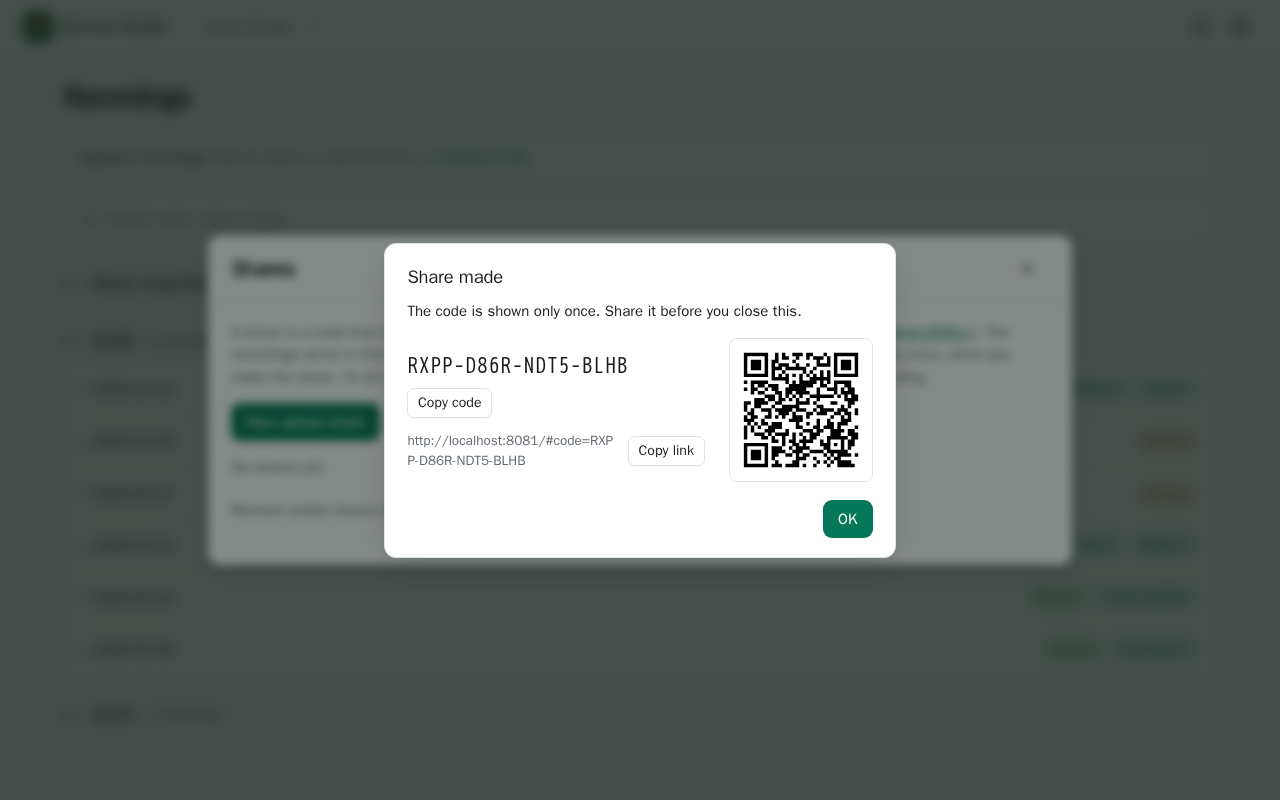
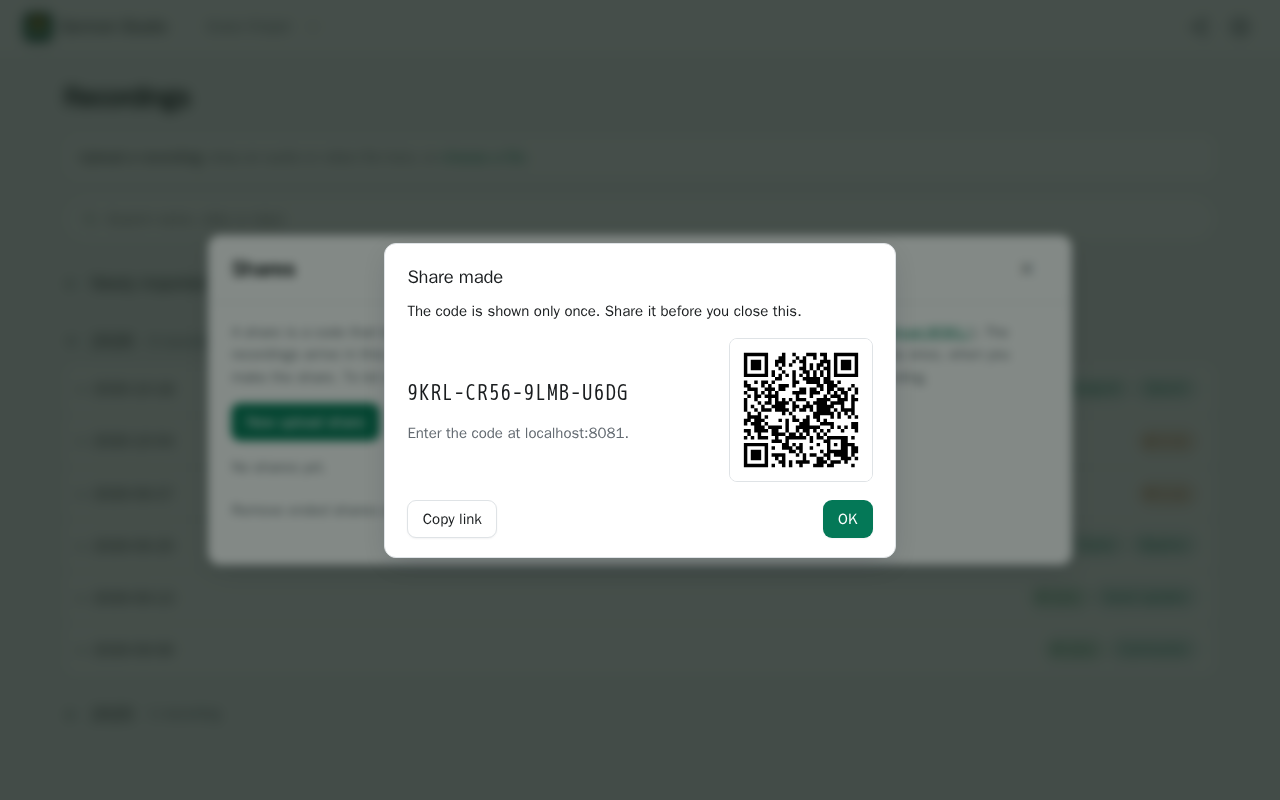
Share invite links and share codes from the phone's share menu (#188)
* Share invite links; Email where there is no share menu

The invite link's dialog gets Share (the device's share menu), with a
subject and a text for the one invited, saying the link is for them only
and works once. Share made (upload and download shares) sends a text with
the link, the code and the expiry. Where the browser has no share menu
(Firefox, Chrome on Linux) the button is Email instead: the user's own mail
program, the subject and text written. The studio sends nothing itself.

* Share made: Copy link and Share at the bottom, no Email

The code and the link lose their own copy buttons: the dialog has Copy
link (Copy code when there is no link; the code, held, still copies the
code) and Share, which sends the link with a text that has the code.
Where there is no share menu only Copy is shown; the Email fallback is
gone, for invites too. The guide's picture of the dialog is made again.

* Share made: the share page's short address instead of the link

The long link with the code in it is no longer shown: Copy link, Share and
the QR code give it. Under the code the dialog says where to type it
("Or open share.example.org and enter the code."), and Share's text names
the same short address. The tests read the link from the dialog's
data-link.

* Share made: "Enter the code at …"

---------

Changed region(s): [[0.3125, 0.4375, 0.5312, 0.5938], [0.5625, 0.4375, 0.6875, 0.5938], [0.3125, 0.625, 0.375, 0.6562]]

diff --git a/web/static/shares.js b/web/static/shares.js
@@ -2,7 +2,7 @@
 // church's inbox from the public share page, or download one sermon (made on
 // the recording, sermons.js). A code is shown once, when the share is made.
 // They have their own overlay (the icon in the header); sharesView fills its box.
-import { api, h, href, formatSize, formatDate, formatDateTime } from './util.js';
+import { api, h, href, formatSize, formatDate, formatDateTime, sendButton } from './util.js';
 import { alertDialog, confirmDialog, formDialog } from './dialog.js';
 import qrcode from './vendor/qrcode/qrcode.esm.js';
 import { t, tn } from './i18n.js';
@@ -69,6 +69,9 @@ function parseExpiry(day, time = '') {
   return new Date(y, m - 1, d, hh, mm, time ? 0 : 59).toISOString();
 }
 
+// shortAddress is the share page's address as said or typed: no https://, no trailing slash.
+const shortAddress = (url) => url.replace(/^https?:\/\//, '').replace(/\/$/, '');
+
 function linkFor(url, code) {
   return url ? url.replace(/\/?$/, '/') + '#code=' + code : '';
 }
@@ -112,27 +115,31 @@ function qrOf(text, label) {
   return svg;
 }
 
-// showCode shows a new share's code and link, once: the code and the link each with a button that copies it, and
-// the link as a QR code to point a phone at. title is what the phone's share menu calls it.
-export async function showCode(url, code, title = t('Send recordings')) {
+// showCode shows a new share's code, once, with the share page's short address to type it at, and the link (with the
+// code in it) as a QR code to point a phone at; the link itself is not shown, only copied (Copy link; the code, held,
+// copies the code) or sent on with a text (Share, sendButton). download: a download share's; expires: when it ends,
+// if it does.
+export async function showCode(url, code, { download = false, expires = '' } = {}) {
+  const title = download ? t('Download a sermon') : t('Send recordings');
   const link = linkFor(url, code);
   const note = h('span', { class: 'muted', role: 'status' });
   const codeEl = h('span', { class: 'share-code', title: t('Hold to copy') }, code);
   holdToCopy(codeEl, code, () => { note.textContent = t('Code copied.'); });
-  const copy = (name, label, text, done) => h('button', { type: 'button', name, class: 'small', onclick: async () => {
-    await navigator.clipboard.writeText(text);
-    note.textContent = done;
-  } }, label);
-  // The phone's own share menu, where there is one.
-  const share = navigator.share ? h('button', { type: 'button', name: 'share', onclick: async () => {
-    try { await navigator.share({ title, ...(link ? { url: link } : { text: code }) }); } catch { /* closed */ }
-  } }, t('Share')) : '';
-  await alertDialog({ title: t('Share made'), extra: [share, note], body: [
+  const copy = h('button', { type: 'button', name: link ? 'copy-link' : 'copy-code', onclick: async () => {
+    await navigator.clipboard.writeText(link || code);
+    note.textContent = link ? t('Link copied.') : t('Code copied.');
+  } }, link ? t('Copy link') : t('Copy code'));
+  const text = [
+    download ? t('Use this link to download the sermon.') : t('Use this link to send recordings.'),
+    expires ? t('It works until {date}.', { date: formatDateTime(expires) }) : '',
+    link ? t('Or open {url} and enter the code {code}.', { url: shortAddress(url), code }) : t('The code is {code}.', { code }),
+  ].filter(Boolean).join(' ');
+  await alertDialog({ title: t('Share made'), extra: [copy, sendButton({ subject: title, text, url: link }), note], body: [
     t('The code is shown only once. Share it before you close this.'),
-    h('span', { class: 'share-made' },
+    h('span', { class: 'share-made', 'data-link': link || undefined },
       h('span', { class: 'share-texts' },
-        h('span', { class: 'share-line' }, codeEl, copy('copy-code', t('Copy code'), code, t('Code copied.'))),
-        link ? h('span', { class: 'share-line' }, h('span', { class: 'share-link' }, link), copy('copy-link', t('Copy link'), link, t('Link copied.'))) : ''),
+        h('span', { class: 'share-line' }, codeEl),
+        link ? h('span', { class: 'share-line muted' }, t('Enter the code at {address}.', { address: shortAddress(url) })) : ''),
       link ? qrOf(link, t('QR code of the link')) : ''),
   ] });
 }
@@ -173,7 +180,7 @@ export async function sharesView(box) {
       }),
     });
     if (!made) return;
-    await showCode(data.url, made.code);
+    await showCode(data.url, made.code, { expires: made.share.expires });
     await refresh();
   } }, t('New upload share'));
 

diff --git a/web/static/locales.js b/web/static/locales.js
@@ -373,6 +373,16 @@ export const nb = {
   "Code copied.": "Koden er kopiert.",
   "Send recordings": "Send opptak",
   "Link copied.": "Lenken er kopiert.",
+  "Use this link to download the sermon.": "Bruk denne lenken for å laste ned prekenen.",
+  "Use this link to send recordings.": "Bruk denne lenken for å sende opptak.",
+  "It works until {date}.": "Den virker til {date}.",
+  "Or open {url} and enter the code {code}.": "Eller åpne {url} og skriv inn koden {code}.",
+  "Enter the code at {address}.": "Skriv inn koden på {address}.",
+  "The code is {code}.": "Koden er {code}.",
+  "Invitation to {church} in Sermon Studio": "Invitasjon til {church} i Sermon Studio",
+  "You are invited to {church} in Sermon Studio, as an admin.": "Du er invitert til {church} i Sermon Studio, som administrator.",
+  "You are invited to {church} in Sermon Studio.": "Du er invitert til {church} i Sermon Studio.",
+  "Open the link, and log in or create an account. The link is for you only: it works once, until {date}.": "Åpne lenken, og logg inn eller lag en konto. Lenken er bare for deg: den virker én gang, til {date}.",
   "Share": "Del",
   "Share made": "Deling laget",
   "The code is shown only once. Share it before you close this.": "Koden vises bare én gang. Del den før du lukker dette.",
@@ -1292,6 +1302,16 @@ export const nn = {
   "Code copied.": "Koden er kopiert.",
   "Send recordings": "Send opptak",
   "Link copied.": "Lenkja er kopiert.",
+  "Use this link to download the sermon.": "Bruk denne lenkja for å laste ned preika.",
+  "Use this link to send recordings.": "Bruk denne lenkja for å sende opptak.",
+  "It works until {date}.": "Ho verkar til {date}.",
+  "Or open {url} and enter the code {code}.": "Eller opne {url} og skriv inn koden {code}.",
+  "Enter the code at {address}.": "Skriv inn koden på {address}.",
+  "The code is {code}.": "Koden er {code}.",
+  "Invitation to {church} in Sermon Studio": "Invitasjon til {church} i Sermon Studio",
+  "You are invited to {church} in Sermon Studio, as an admin.": "Du er invitert til {church} i Sermon Studio, som administrator.",
+  "You are invited to {church} in Sermon Studio.": "Du er invitert til {church} i Sermon Studio.",
+  "Open the link, and log in or create an account. The link is for you only: it works once, until {date}.": "Opne lenkja, og logg inn eller lag ein konto. Lenkja er berre for deg: ho verkar éin gong, til {date}.",
   "Share": "Del",
   "Share made": "Deling laga",
   "The code is shown only once. Share it before you close this.": "Koden blir berre vist éin gong. Del han før du lukkar dette.",

diff --git a/web/e2e/tests/web.spec.js b/web/e2e/tests/web.spec.js
@@ -1053,13 +1053,19 @@ test('shares: make a code in the studio, send a recording with the link', async 
   await expect(page.locator('input[name=expires]')).toHaveValue(week.toLocaleDateString('sv-SE'));
   await expect(page.locator('input[name=expiresTime]')).toHaveValue('');
   await page.locator('input[name=expires]').fill('2099-12-31');
+  // The phone's share menu, which the test browser has not: what it is given is kept.
+  await page.evaluate(() => { navigator.share = async (data) => { window.shared = data; }; });
   await page.getByRole('button', { name: 'Make share' }).click();
   const dialog = page.getByRole('dialog');
-  const link = await dialog.locator('.share-link').textContent();
+  const link = await dialog.locator('.share-made').getAttribute('data-link');
   expect(link).toMatch(/^http:\/\/localhost:8081\/#code=[A-Z2-9]{4}(-[A-Z2-9]{4}){3}$/);
   await expect(dialog.getByRole('img', { name: 'QR code of the link' })).toBeVisible();
   await page.getByRole('dialog', { name: 'Share made' }).screenshot({ path: path.join(shots, 'share-made.png'), animations: 'disabled' });
-  // Holding the code copies it, as Copy code does; Copy link copies the link.
+  // Share sends the link with a text that has the code.
+  await dialog.getByRole('button', { name: 'Share', exact: true }).click();
+  expect(await page.evaluate(() => window.shared)).toEqual({ title: 'Send recordings', url: link,
+    text: `Use this link to send recordings. It works until 2099-12-31 23:59. Or open localhost:8081 and enter the code ${link.split('=')[1]}.` });
+  // Holding the code copies it; Copy link copies the link.
   await context.grantPermissions(['clipboard-read', 'clipboard-write']);
   const code = dialog.locator('.share-code');
   await code.hover();
@@ -1192,7 +1198,7 @@ test('download shares: share a finished sermon from its row, download it on the 
   await page.screenshot({ path: path.join(shots, 'share-download-dialog.png') });
   await dialog.getByRole('button', { name: 'Make share' }).click();
   const made = page.getByRole('dialog', { name: 'Share made' });
-  const link = await made.locator('.share-link').textContent();
+  const link = await made.locator('.share-made').getAttribute('data-link');
   expect(link).toMatch(/^http:\/\/localhost:8081\/#code=[A-Z2-9]{4}(-[A-Z2-9]{4}){3}$/);
   await made.getByRole('button', { name: 'OK' }).click();
   // The sermon's row lists its own shares.

diff --git a/web/static/members.js b/web/static/members.js
@@ -1,7 +1,7 @@
 // Members, a section of the settings (with the login, --oidc-issuer): an admin sees who the
 // church's members are, changes their role, removes them, and makes and revokes invite links;
 // a member can leave the church. A church always keeps an admin (the server says so).
-import { api, h, formatDate, formatDateTime, ROOT } from './util.js';
+import { api, h, formatDate, formatDateTime, ROOT, sendButton } from './util.js';
 import { alertDialog, confirmDialog } from './dialog.js';
 import { t } from './i18n.js';
 
@@ -95,8 +95,18 @@ export async function membersView(box, church, admin) {
     invites);
 }
 
-// showInvite shows a new invite's link, once, with a button that copies it.
+// showInvite shows a new invite's link, once, with a button that copies it, and Share
+// (sendButton) with a text for the one invited.
 async function showInvite(link, invite, church) {
+  const date = formatDateTime(invite.expires);
+  const send = sendButton({
+    subject: t('Invitation to {church} in Sermon Studio', { church: church.name }),
+    text: (invite.role === 'admin'
+      ? t('You are invited to {church} in Sermon Studio, as an admin.', { church: church.name })
+      : t('You are invited to {church} in Sermon Studio.', { church: church.name }))
+      + ' ' + t('Open the link, and log in or create an account. The link is for you only: it works once, until {date}.', { date }),
+    url: link,
+  });
   const note = h('span', { class: 'muted', role: 'status' });
   const copy = h('button', { type: 'button', name: 'copy-invite', onclick: async () => {
     try {
@@ -104,7 +114,7 @@ async function showInvite(link, invite, church) {
       note.textContent = t('Link copied.');
     } catch { note.textContent = t('Select the link and copy it.'); }
   } }, t('Copy link'));
-  await alertDialog({ title: t('Invite link made'), extra: [copy, note], body: [
+  await alertDialog({ title: t('Invite link made'), extra: [copy, send, note], body: [
     h('p', {}, invite.role === 'admin'
       ? t('Send this link to the one you invite to {church} as an admin. It is shown only now, and works once, until {date}.', { church: church.name, date: formatDateTime(invite.expires) })
       : t('Send this link to the one you invite to {church} as a member. It is shown only now, and works once, until {date}.', { church: church.name, date: formatDateTime(invite.expires) })),

diff --git a/web/e2e/tests/login.spec.js b/web/e2e/tests/login.spec.js
@@ -92,6 +92,8 @@ test('an admin sees the members, changes a role and makes an invite link', async
     return r.fulfill({ status: 201, json: { token: 'first-church.secret',
       invite: { id: 'i2', role: 'admin', createdBy: 'Kari Nordmann', created: '2026-10-25T09:00:00Z', expires: '2026-10-26T09:00:00Z' } } });
   });
+  // The phone's share menu, which the test browser has not: what it is given is kept.
+  await page.addInitScript(() => { navigator.share = async (data) => { window.shared = data; }; });
   await page.goto('c/first-church/settings/members');
   const section = page.locator('#members');
   await expect(section.getByRole('heading', { name: 'Members' })).toBeVisible();
@@ -112,6 +114,12 @@ test('an admin sees the members, changes a role and makes an invite link', async
   await expect(dialog.getByText(/invite#first-church\.secret$/)).toBeVisible();
   await expect(dialog.getByText('as an admin')).toBeVisible();
   await dialog.screenshot({ path: path.join(shots, 'invite-made.png') });
+  // Share sends it on, with a text for the one invited.
+  await dialog.getByRole('button', { name: 'Share' }).click();
+  const shared = await page.evaluate(() => window.shared);
+  expect(shared.title).toMatch(/^Invitation to .+ in Sermon Studio$/);
+  expect(shared.url).toMatch(/invite#first-church\.secret$/);
+  expect(shared.text).toMatch(/^You are invited to .+ in Sermon Studio, as an admin\. .*it works once, until .+\.$/);
   expect(calls[1]).toEqual(['POST', '/api/invites', { role: 'admin', days: 1 }]);
   await dialog.getByRole('button', { name: 'OK' }).click();
 

diff --git a/web/e2e/guide/guide.spec.js b/web/e2e/guide/guide.spec.js
@@ -127,7 +127,7 @@ test('settings and a share for people without a login', async ({ page, context }
   await page.locator('input[name=expires]').fill('2026-12-31');
   await page.getByRole('button', { name: 'Make share' }).click();
   const dialog = page.getByRole('dialog');
-  const link = await dialog.locator('.share-link').textContent();
+  const link = await dialog.locator('.share-made').getAttribute('data-link');
   await shot(page, '13-share-made');
   await dialog.getByRole('button', { name: 'OK' }).click();
   await shot(page, '14-shares');
@@ -155,7 +155,7 @@ test('a finished sermon shared for download', async ({ page, context }) => {
   await shot(page, '20-share-download');
   await dialog.getByRole('button', { name: 'Make share' }).click();
   const made = page.getByRole('dialog', { name: 'Share made' });
-  const link = await made.locator('.share-link').textContent();
+  const link = await made.locator('.share-made').getAttribute('data-link');
   await made.getByRole('button', { name: 'OK' }).click();
   const guest = await context.newPage();
   await guest.goto(link);

diff --git a/web/e2e/site-shots/video.spec.js b/web/e2e/site-shots/video.spec.js
@@ -440,10 +440,10 @@ test('the studio in use', async ({ browser }) => {
   await click(dialog.getByRole('button', { name: 'In a month', exact: true }));
   await pause(700);
   await click(dialog.getByRole('button', { name: 'Make share', exact: true }));
-  const link = page.getByRole('dialog').locator('.share-link');
+  const link = page.getByRole('dialog').locator('.share-made');
   await expect(link).toBeVisible();
   await caption('9. Share it', 'A code, a link and a QR code');
-  const address = await link.textContent();
+  const address = await link.getAttribute('data-link');
   await point(page.getByRole('dialog').locator('canvas, svg, img').last());
   await pause(2500);
   await click(page.getByRole('dialog').getByRole('button', { name: 'OK', exact: true }));

diff --git a/web/static/util.js b/web/static/util.js
@@ -192,6 +192,15 @@ export function h(tag, attrs, ...children) {
   return el;
 }
 
+// sendButton is Share: the device's own share menu (phones, and most browsers; SMS, email and the rest are its
+// choices), given a subject, a text and the link. Nothing where there is none: the dialog's Copy is left.
+export function sendButton({ subject, text, url }) {
+  if (!navigator.share) return '';
+  return h('button', { type: 'button', name: 'share', onclick: async () => {
+    try { await navigator.share({ title: subject, text, ...(url ? { url } : {}) }); } catch { /* closed */ }
+  } }, t('Share'));
+}
+
 // kbdText turns the <kbd>key</kbd> marks of a (translated) text into <kbd>
 // elements; the rest stays text.
 export function kbdText(text) {

diff --git a/web/static/style.css b/web/static/style.css
@@ -445,7 +445,6 @@ body.card-page .downloads button .size { font-weight: 400; opacity: 0.85; }
 .share-made { display: flex; flex-wrap: wrap; align-items: center; gap: 1rem 1.5rem; margin-top: 1rem; }
 .share-texts { display: grid; gap: 0.8rem; flex: 1 1 14rem; min-width: 0; }
 .share-line { display: flex; flex-wrap: wrap; align-items: center; gap: 0.4rem 0.8rem; }
-.share-line .share-link { flex: 1 1 12rem; min-width: 0; font-size: 0.9em; color: var(--muted); }
 .share-qr { width: 9rem; height: 9rem; flex: none; border: 1px solid var(--line); border-radius: var(--radius-inner); }
 .dialog .share-form { margin: 0.6rem 0; }
 .share-form { display: grid; grid-template-columns: 11em minmax(10em, 22em); align-items: center; gap: 0.5rem 0.8rem; }

diff --git a/web/e2e/site-shots/shots.spec.js b/web/e2e/site-shots/shots.spec.js
@@ -143,8 +143,8 @@ for (const [lang, L] of Object.entries(LANGS).filter(([l]) => !only.length || on
     await shot('share');
     await dialog.getByRole('button', { name: T('Make share'), exact: true }).click();
     const made = page.getByRole('dialog');
-    await expect(made.locator('.share-link')).toBeVisible();
-    const link = await made.locator('.share-link').textContent();
+    await expect(made.locator('.share-made')).toBeVisible();
+    const link = await made.locator('.share-made').getAttribute('data-link');
     await made.getByRole('button', { name: T('OK'), exact: true }).click();
     const guest = await context.newPage();
     await guest.goto(link);

diff --git a/web/e2e/tests/transcripts.spec.js b/web/e2e/tests/transcripts.spec.js
@@ -233,7 +233,7 @@ test('transcripts: shared for download with the recording, as text and captions'
   await page.screenshot({ path: path.join(shots, 'share-download-all.png') });
   await dialog.getByRole('button', { name: 'Make share' }).click();
   const made = page.getByRole('dialog', { name: 'Share made' });
-  const link = await made.locator('.share-link').textContent();
+  const link = await made.locator('.share-made').getAttribute('data-link');
   await made.getByRole('button', { name: 'OK' }).click();
   await expect(detail.locator('.recording-shares')).toContainText('all formats + transcript');
 

diff --git a/web/static/sermons.js b/web/static/sermons.js
@@ -314,7 +314,7 @@ export function sermonDetail(entry, ctx = {}) {
             maxDownloads: Number(max.value) || 0,
             expires: expires.value(),
           });
-          await showCode(done.url, done.code, t('Download a sermon'));
+          await showCode(done.url, done.code, { download: true, expires: done.share.expires });
           await recordingShares(entry.path, sharesBox);
           return;
         } catch (err) {
